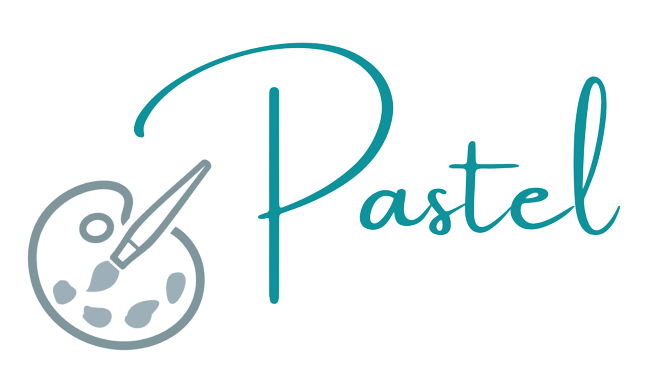
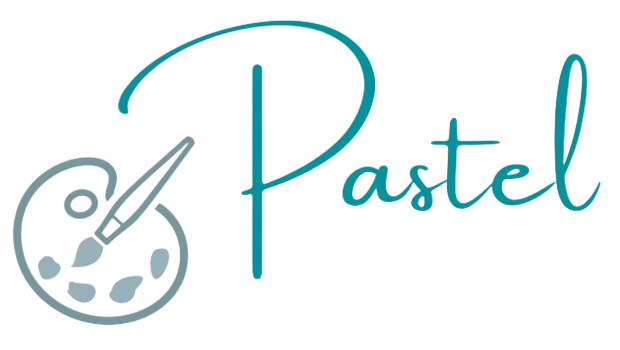
Committ Message

Changed region(s): [[0.0, 0.3714, 0.3371, 0.9429], [0.521, 0.1429, 0.9806, 0.6286], [0.1839, 0.0571, 0.6129, 0.8286]]

diff --git a/_includes/header.html b/_includes/header.html
@@ -9,7 +9,7 @@
                     <span class="icon-bar"></span>
                     <span class="icon-bar"></span>
                 </button>
-                <a class="navbar-brand page-scroll" href="#page-top"><img src="img/pastel.png" class="img-responsive" width="20%" alt=""></a>
+                <a class="navbar-brand page-scroll" href="#page-top"><img class="logo" src="img/pastel.png" width="25%" alt=""></a>
             </div>
 
             <!-- Collect the nav links, forms, and other content for toggling -->

diff --git a/_layouts/style.css b/_layouts/style.css
@@ -3,9 +3,11 @@
 {{ content }}
 
 .navbar ul {
+    height: 40px !important;
     padding: 0px;
     margin: 0px;
     text-align: center;
     display:inline-block;
     vertical-align:top;
-  }
+}
+
